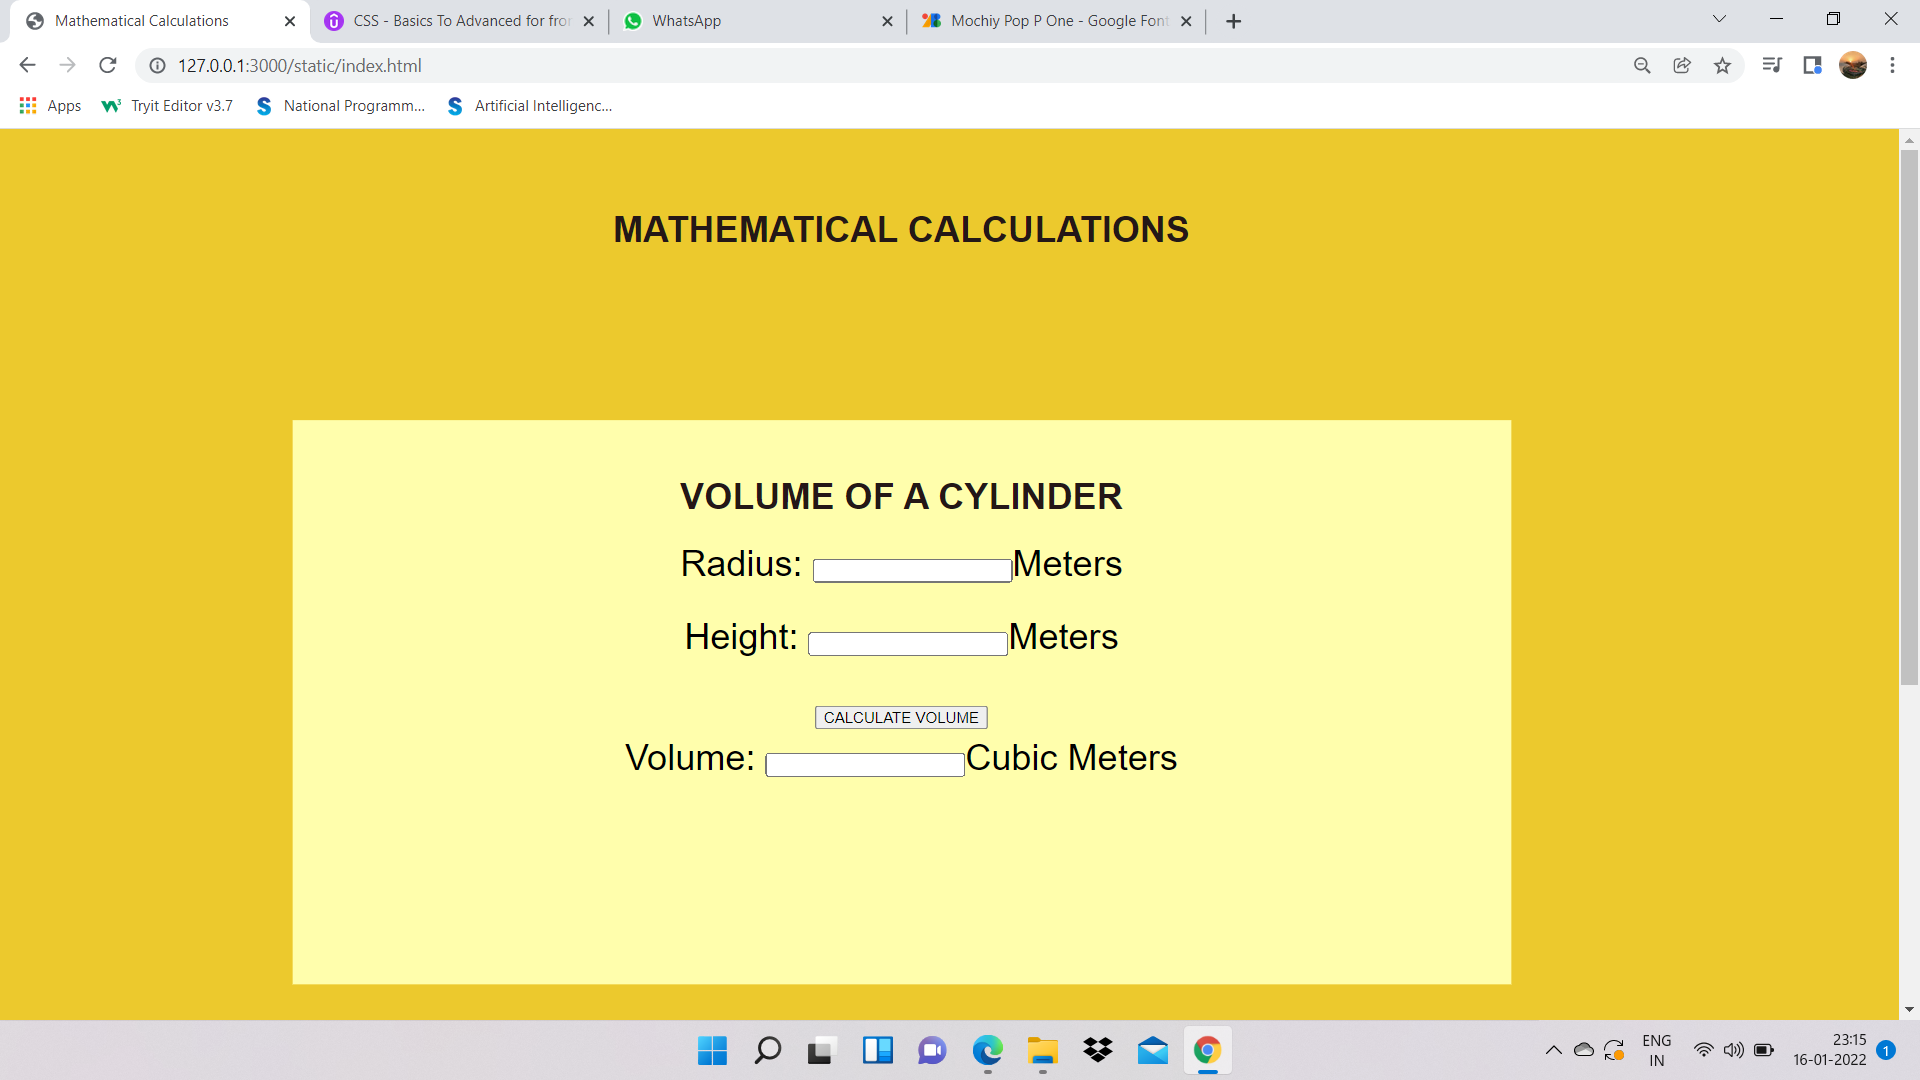
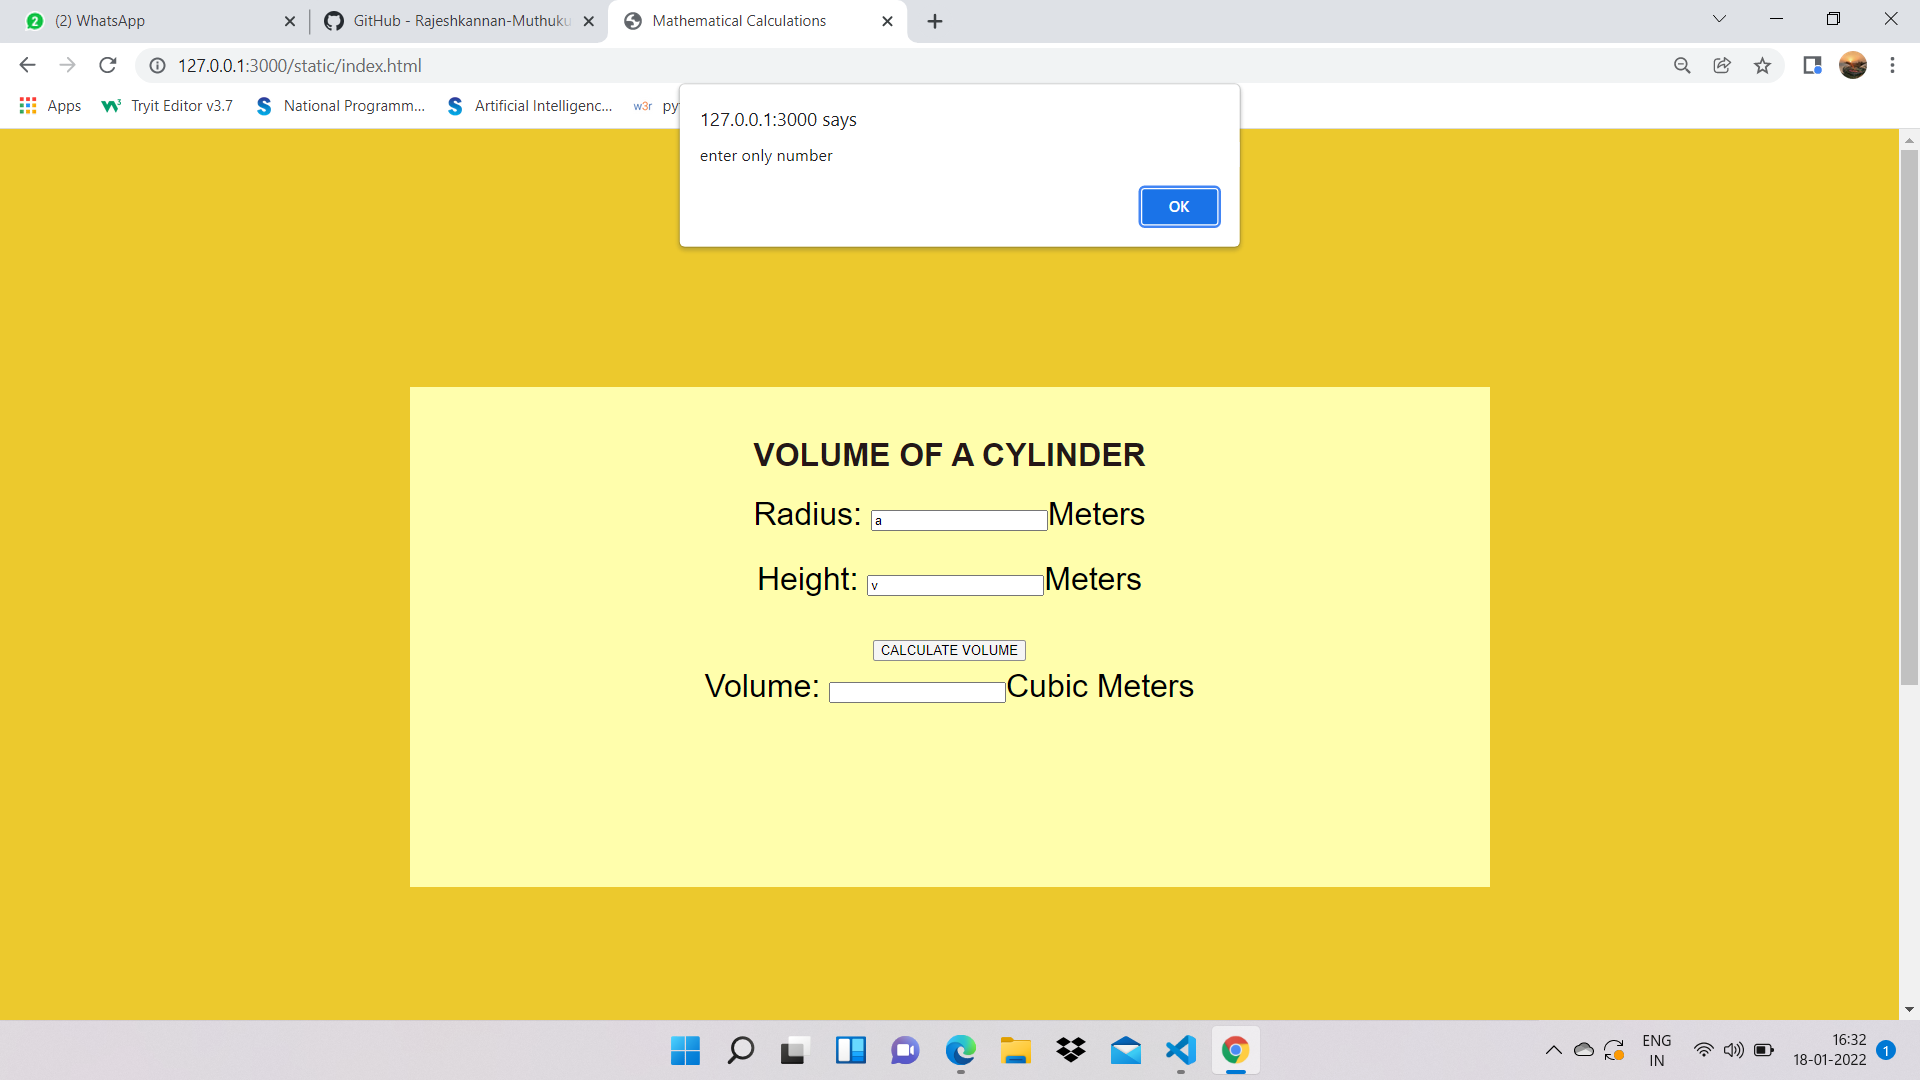
mathwebsite1

diff --git a/calculations/static/index.html b/calculations/static/index.html
@@ -130,5 +130,56 @@
           });
     
       </script> 
+      <script type="text/javascript">
+        var button;
+        button = document.querySelector("#calbutton1");
+        button.addEventListener("click", function () {
+          var atext, btext, ctext;
+          var aval, bval, cval;
+          atext = document.querySelector("#aedit");
+          btext = document.querySelector("#bedit");
+          ctext = document.querySelector("#cedit");
+      
+          if(Number(atext.value)&&Number(btext.value))
+          {
+            aval=parseInt(atext.value);
+            bval=parseInt(btext.value);
+          }
+          else{
+            window.alert("enter only number");
+          }
+      
+      
+          
+      
+          cval = 3.14 * aval * aval * bval;
+          ctext.value = "" + cval;
+        });
+      </script>
+      <script type="text/javascript">
+        var button;
+        button = document.querySelector("#calbutton2");
+        button.addEventListener("click", function () {
+      
+         var lengthtext,breadthtext,areatext;
+         var aval,bval,cval;
+          lengthtext=document.querySelector("#lengthedit");
+          breadthtext=document.querySelector("#breadthedit")
+          areatext=document.querySelector("#areaedit");
+            
+          if(Number(lengthtext.value)&&Number(breadthtext.value))
+          {
+            aval=parseInt(lemgthtext.value);
+            bval=parseInt(breadthtext.value);
+          }
+          else{
+            window.alert("enter only number");
+          }
+          
+          cval=aval*bval
+          areatext.value=cval;
+        });
+      
+      </script>
   </body>
 </html>
